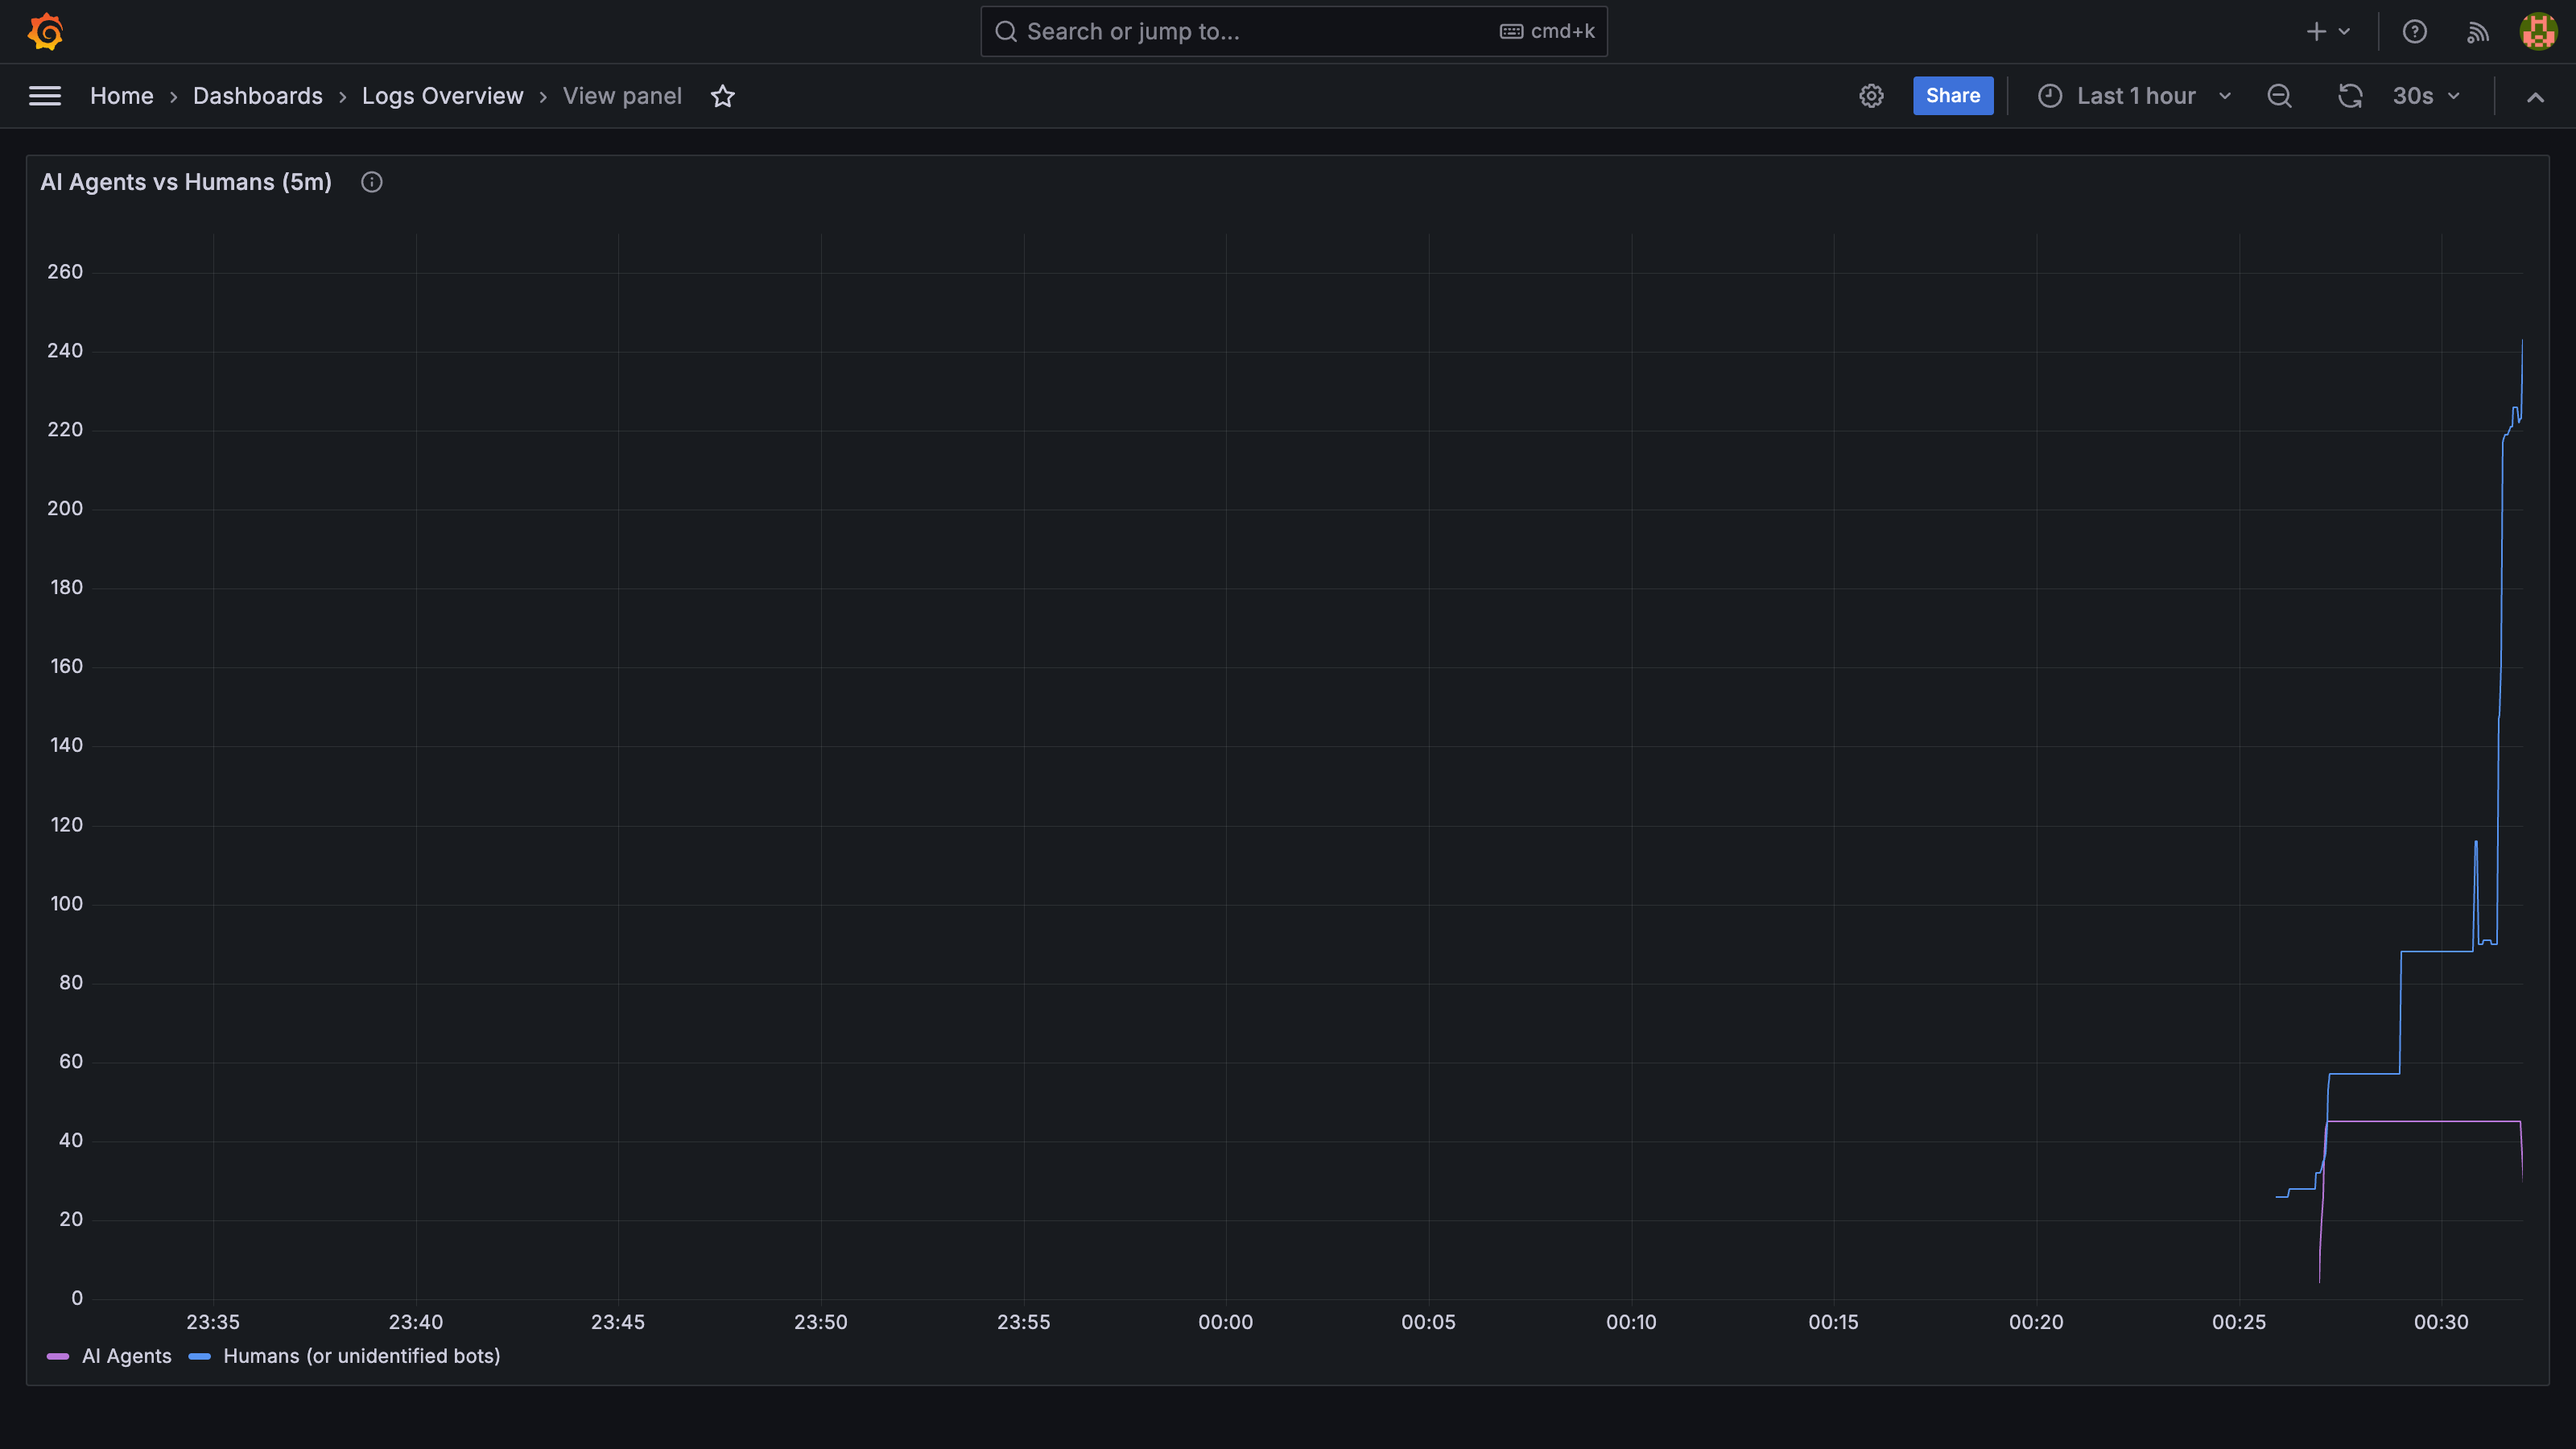
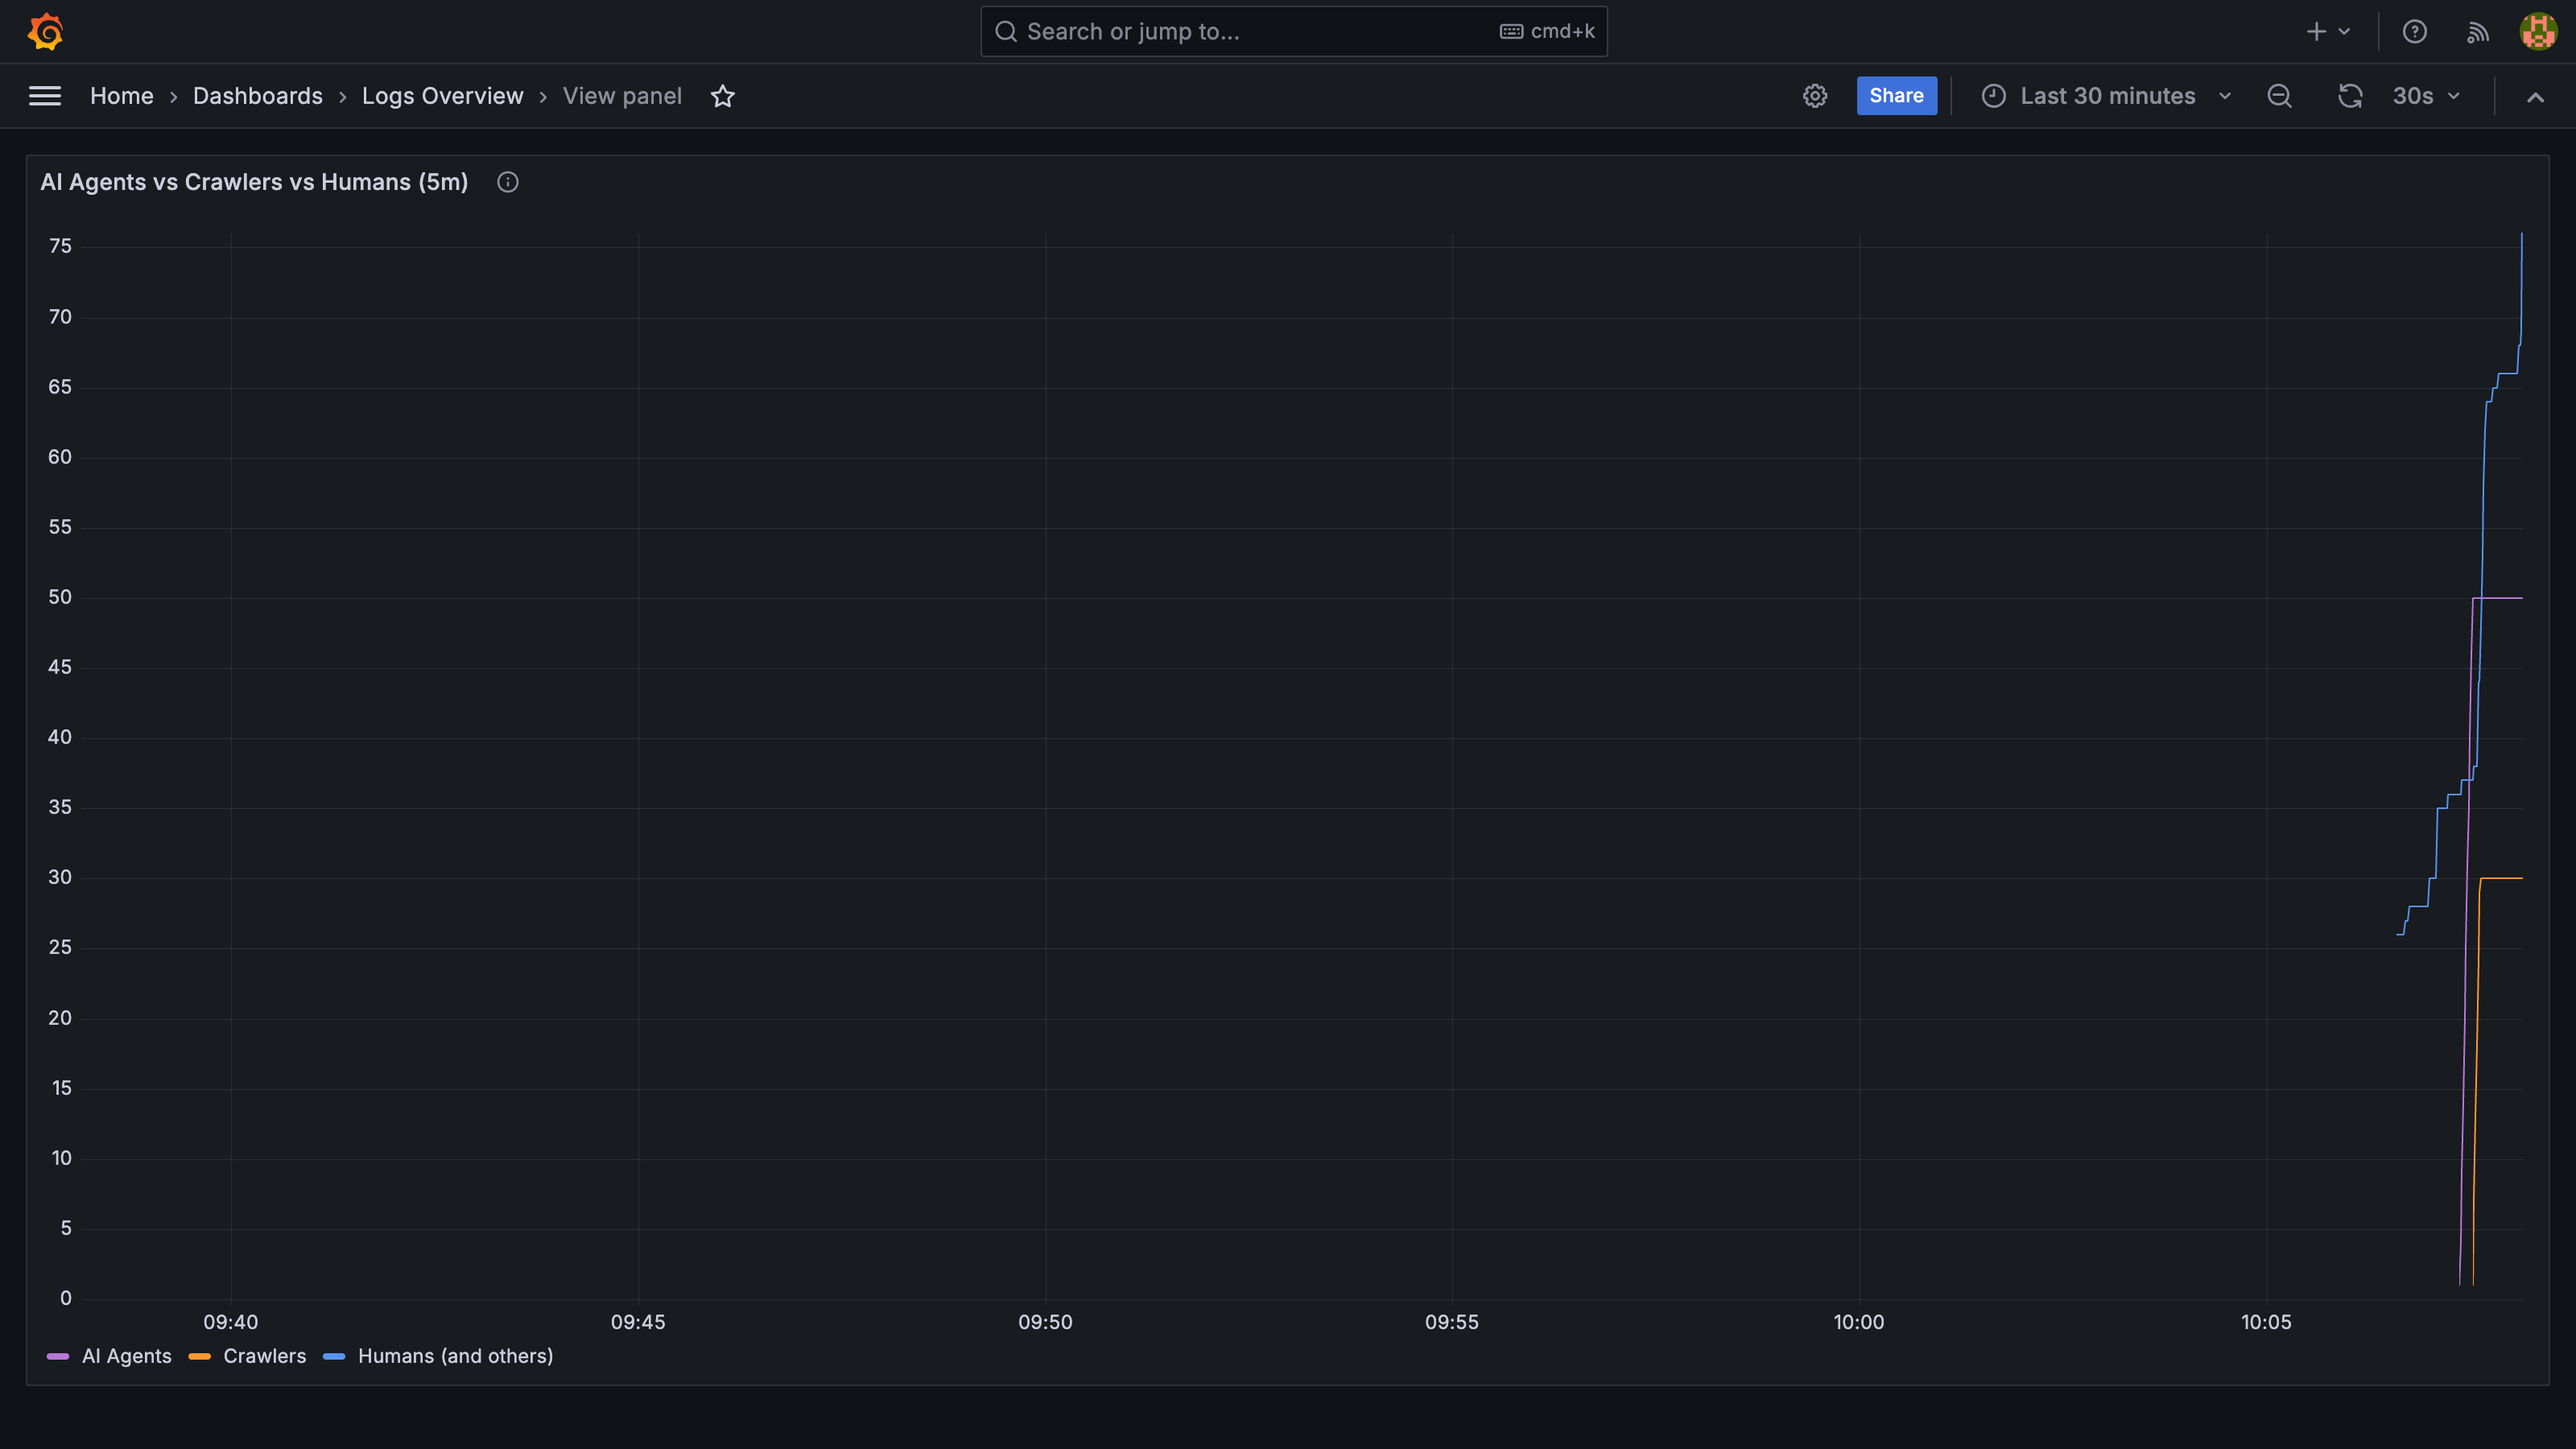
implements PR feedback

diff --git a/src/middleware.ts b/src/middleware.ts
@@ -75,7 +75,7 @@ export const onRequest = defineMiddleware(async (context, next) => {
     headers.append('Link', link);
   }
 
-  if (POST_PAGE_RE.test(pathname) && !pathname.includes('/tags')) {
+  if (POST_PAGE_RE.test(pathname) && !pathname.includes('/tags') && !pathname.endsWith('.md')) {
     const mdUrl = pathname.replace(/\/$/, '') + '.md';
     headers.append('Link', `<${mdUrl}>; rel="alternate"; type="text/markdown"`);
   }

diff --git a/src/content/blog/en/agent-ready.md b/src/content/blog/en/agent-ready.md
@@ -166,10 +166,10 @@ The before score was 25. I will update this post with the after score once the c
 
 ## Bonus: Watching Agents in Grafana 📈
 
-As a companion to these changes, I added a panel to the site's Grafana logs dashboard that splits nginx traffic by user agent: known AI crawlers (GPTBot, ClaudeBot, PerplexityBot, and a dozen others) on one series, everything else on the other.
+As a companion to these changes, I added a panel to the site's Grafana logs dashboard that splits nginx traffic into three series by user agent: known AI agents (GPTBot, ClaudeBot, PerplexityBot, and similar LLM-powered consumers), known crawlers (Googlebot, Bingbot, social preview bots), and everyone else.
 
-![Grafana timeseries panel titled "AI Agents vs Humans (5m)" showing two lines: AI Agents in purple and Humans (or unidentified bots) in blue, with a visible traffic spike from a test run](../../../assets/blog/agent-ready/grafana-ai-agents-vs-humans.png)
+![Grafana timeseries panel titled "AI Agents vs Crawlers vs Humans (5m)" showing three lines: AI Agents in purple, Crawlers in orange, and Humans in blue, with a visible traffic spike from a test run](../../../assets/blog/agent-ready/grafana-ai-agents-vs-humans.png)
 
 This screenshot is from a local test run where I sent 50 fake AI agent requests and 20 fake human requests to verify the panel. The "humans" line is higher because it also picks up the browser traffic from loading Grafana itself. On the real production site the ratio will be more telling.
 
-A Loki regex over user agents is not perfect detection: agents that do not self-identify look like humans, and some agents spoof browser strings deliberately. But the ones that do announce themselves give enough signal to be interesting.
+A Loki regex over user agents is not perfect detection: agents that do not self-identify land in the humans bucket, and some spoof browser strings deliberately. But the ones that do announce themselves give enough signal to be worth watching.
